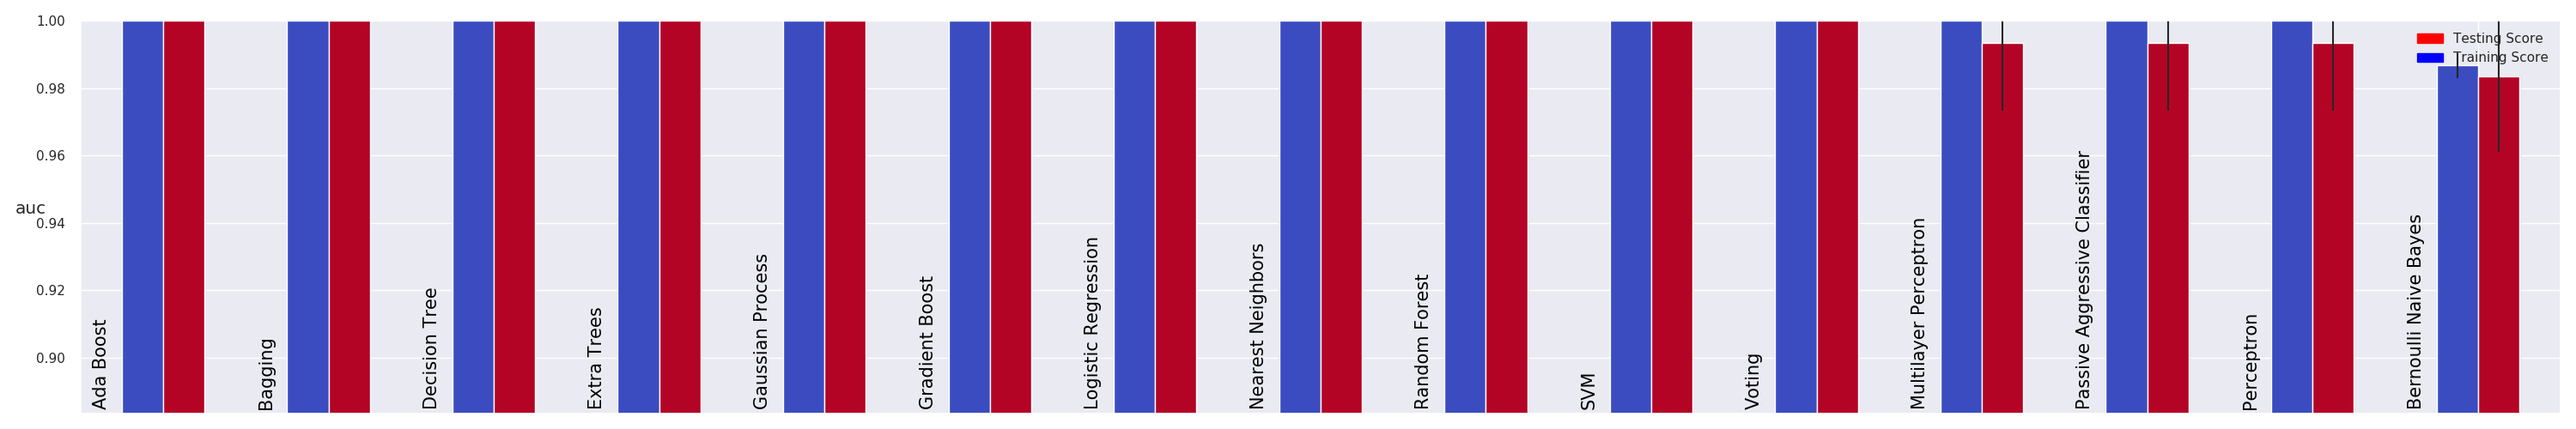
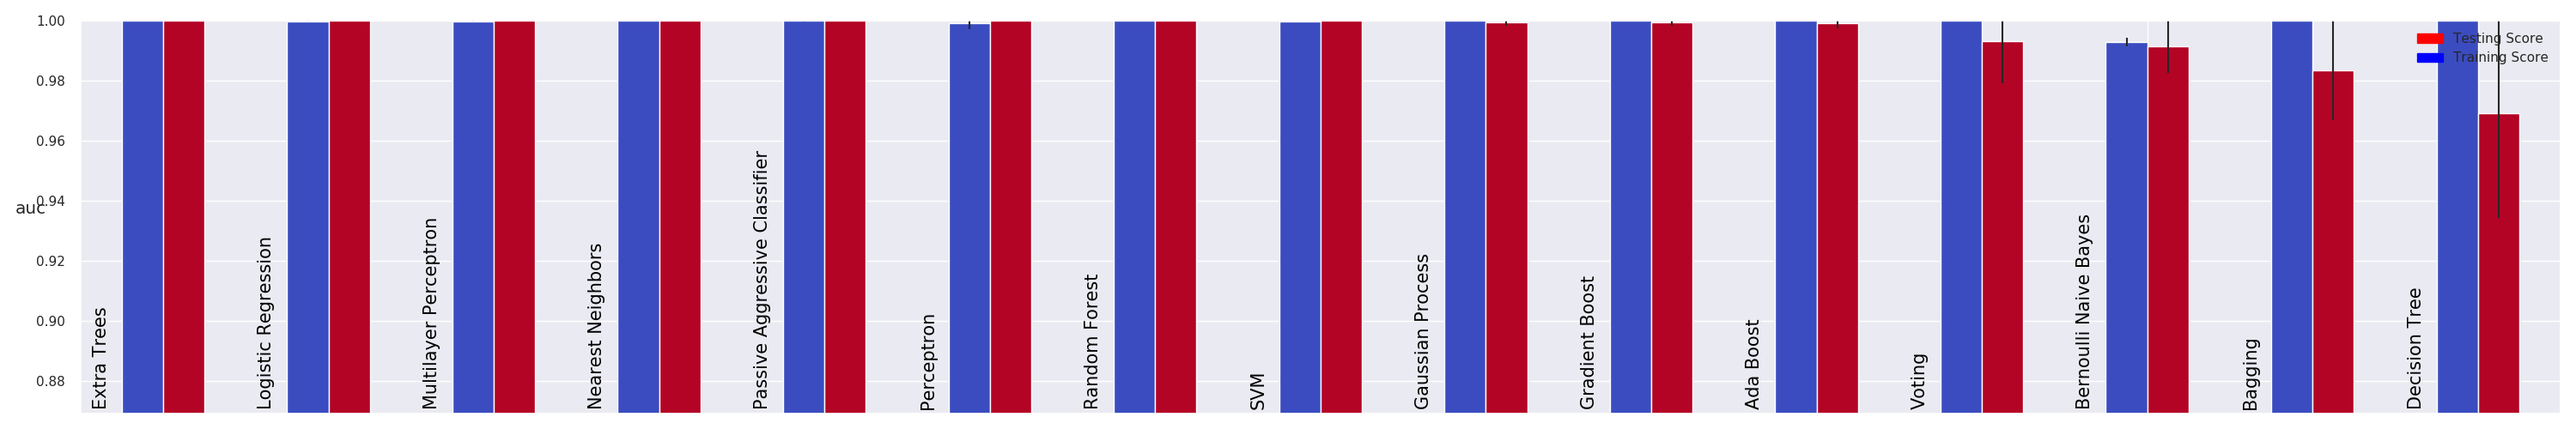
finalize Gaussian example to be a lot easier to classify

diff --git a/dfncluster/Dataset/GaussianConnectivityDataset.py b/dfncluster/Dataset/GaussianConnectivityDataset.py
@@ -1,5 +1,7 @@
+import os
 import numpy as np
 from dfncluster.Dataset import Dataset
+import matplotlib.pyplot as plt
 
 
 class GaussianConnectivityDataset(Dataset):
@@ -13,23 +15,24 @@ class GaussianConnectivityDataset(Dataset):
     """
 
     def __init__(self,
-                 num_ics=10,
+                 num_ics=50,
                  num_subjects=300,
                  num_features=159,
                  window_size=22,
+                 min_transition_len=22,
                  class_parameters=[
                      dict(
-                         states=[0.15, 0.15, 0.15, 0.4, 0.15],
-                         sigma_ics=0.05,
-                         sigma_ext=0.001,
-                         epsilon=0.1,
+                         states=[0.4, 0.1, 0.1, 0.3, 0.1],
+                         sigma_ics=1e-1,
+                         sigma_ext=1e-2,
+                         epsilon=1e-2,
                          transition_probability=[0.5, 0.5, 0.5, 0.5, 0.5]
                      ),
                      dict(
-                         states=[0.4, 0.15, 0.15, 0.15, 0.15],
-                         sigma_ics=0.05,
-                         sigma_ext=0.001,
-                         epsilon=0.1,
+                         states=[0.1, 0.1, 0.3, 0.1, 0.4],
+                         sigma_ics=1e-1,
+                         sigma_ext=1e-2,
+                         epsilon=1e-2,
                          transition_probability=[0.5, 0.5, 0.5, 0.5, 0.5]
                      )
                  ],
@@ -54,7 +57,8 @@ class GaussianConnectivityDataset(Dataset):
             num_classes=num_classes,
             num_features=num_features,
             class_parameters=class_parameters,
-            window_size=window_size
+            window_size=window_size,
+            min_transition_len=min_transition_len
         )
 
     def generate(self,  **kwargs):
@@ -80,8 +84,11 @@ class GaussianConnectivityDataset(Dataset):
         num_subjects = kwargs['num_subjects']
         num_classes = kwargs['num_classes']
         class_parameters = kwargs['class_parameters']
+        num_states = len(class_parameters[0]['states'])
+        num_ics_per_class = int(num_ics/num_states)
         num_features = kwargs['num_features']
         window_size = kwargs['window_size']
+        min_transition_len = kwargs['min_transition_len']
         num_created = 0
         features = []
         labels = []
@@ -89,7 +96,11 @@ class GaussianConnectivityDataset(Dataset):
         # for c in range(num_classes):
         #    class_signals.append(np.random.normal(loc=0, scale=sigma_ics, size=(1, num_features)))
         connected_states = []
+        for iii in range(num_states):
+            connected_states.append(np.arange(num_ics_per_class*iii, (num_ics_per_class*iii + num_ics_per_class)))
+        make_figures = [True for x in range(num_classes)]
         while num_created < num_subjects:
+            last_transition = 0
             label = np.random.randint(0, num_classes)
             parameters = class_parameters[label]
             sigma_ext = parameters['sigma_ext']
@@ -99,9 +110,6 @@ class GaussianConnectivityDataset(Dataset):
             transition_probability = parameters['transition_probability']
             num_states = len(states)
             state_vector = []
-            while len(connected_states) < num_states:
-                connected_states.append(np.random.choice(np.arange(num_ics), size=(np.random.randint(2, num_ics),)))
-
             source_signal = np.random.normal(loc=0, scale=sigma_ics, size=(1, num_features))
             signal = np.random.normal(loc=0, scale=sigma_ext, size=(num_ics, num_features))
             state_index = np.random.choice(np.arange(num_states), size=1, p=states)[0]
@@ -109,9 +117,21 @@ class GaussianConnectivityDataset(Dataset):
             for ww in range(0, num_features-window_size):
                 source_window = source_signal[:, ww:(ww+window_size)]
                 tprob = transition_probability[state_index]
-                if np.random.randn() < tprob:
+                if np.random.randn() < tprob and ww > last_transition + min_transition_len:
+
+                    fname = 'data/examples/frames/class%s_state%d.png' % (label, state_vector[last_transition])
                     state_index = np.random.choice(np.arange(num_states), size=1, p=states)[0]
                     actual_state = connected_states[state_index]
+                    if not os.path.exists(fname):
+                        window = np.corrcoef(signal[:, (last_transition):(ww)])
+                        fig, ax = plt.subplots(1,1)
+                        made=ax.imshow(window-np.eye(*window.shape), vmin=0, vmax=1)
+                        ax.set_title("Class %s / State %d" % (label, state_vector[last_transition]))
+                        os.makedirs('data/examples/frames', exist_ok=True)
+                        plt.savefig(fname, bbox_inches='tight')
+                        make_figures[label] = False
+                        plt.close()
+                    last_transition = ww-1
                 state_vector.append(state_index)
                 for ic in range(num_ics):
                     if ic in actual_state:
@@ -119,7 +139,7 @@ class GaussianConnectivityDataset(Dataset):
             labels.append(label)
             features.append(signal)
             num_created += 1
-            print("Created subject %d with label %d" % (num_created, label))
+            print("Created subject %d with label %d, states %s" % (num_created, label, state_vector))
         features = np.array(features)
         labels = np.array(labels)
         print(labels.shape, features.shape)

diff --git a/data/GaussianConnectivityDatasets/TestGCDataset/TestGCDataset.py b/data/GaussianConnectivityDatasets/TestGCDataset/TestGCDataset.py
@@ -1,6 +1,6 @@
 import json
 from dfncluster.Dataset import GaussianConnectivityDataset
-
+from dfncluster.dFNC import dFNC
 
 class TestGCDataset:
     @staticmethod
@@ -12,3 +12,11 @@ class TestGCDataset:
 
 if __name__ == '__main__':
     dataset = TestGCDataset.make()
+    dfnc = dFNC(
+        dataset=dataset,
+        first_stage_algorithm=None,
+        second_stage_algorithm=None,
+        window_size=22,
+        time_index=1)
+    fnc_features, fnc_labels = dfnc.compute_windows()
+    dfnc.visualize_clusters(fnc_features, fnc_labels, 'Features', 'results/gauss_features.png',None)

diff --git a/main.py b/main.py
@@ -184,6 +184,7 @@ if __name__ == '__main__':
                                                state_filename="%s/%s_states.png" %
                                                (result_dir, cluster_prefix),
                                                ttest_fileprefix="%s/%s_ttest" % (result_dir, cluster_prefix),
+                                               dendogram_filename="%s/%s_dendogram.png" % (result_dir, cluster_prefix),
                                                **params)
 
         subject_data, subject_labels = dfnc.get_subjects()

diff --git a/dfncluster/dFNC/dFNC.py b/dfncluster/dFNC/dFNC.py
@@ -268,7 +268,7 @@ class dFNC:
         """
         print("Computing FNC Windows")
         fnc_features, fnc_labels = self.compute_windows()
-
+        self.visualize_clusters(fnc_features, fnc_labels, kwargs['name'], vis_filename.replace('visualization', 'features'),None)
         if self.first_stage_algorithm is not None:
             print("Performing exemplar clustering")
             exemplar_clusterer = self.first_stage_algorithm(X=self.exemplars['x'], Y=self.exemplars['y'], param_grid=grid_params, **kwargs)

diff --git a/dfncluster/Clusterer/HierarchicalClusterer.py b/dfncluster/Clusterer/HierarchicalClusterer.py
@@ -90,7 +90,10 @@ class HierarchicalClusterer(Clusterer):
             samples = self.X[self.assignments == k, :]
             centroids.append(np.mean(samples, 0))
         self.centroids = np.vstack(centroids)
-        plot_dendrogram(self, truncate_mode='level', p=self.n_clusters_)
+        try:
+            plot_dendrogram(self, truncate_mode='level', p=self.n_clusters_)
+        except AttributeError:
+            pass
         
 
     def evaluate(self):

diff --git a/README.md b/README.md
@@ -15,20 +15,58 @@ Section II describes the fMRI data used in our experimentation, while Section II
 
 # Section III: Methods
 
-# Section IV: Results
+<img width="50%" src="results/dfnc_pipeline(1).png?raw=True" />
 
+# Section IV: Results & Discussion
 
-### Gaussian Simulated Dataset 
+## Gaussian Simulated Dataset 
+
+| Clustering Algorithm | Multilayer Perceptron | Nearest Neighbors | SVM             | Random Forest | Extra Trees   | Gradient Boost  | Logistic Regression | Passive Aggressive Classifier | Perceptron      | Gaussian Process | Ada Boost         | Voting            | Bernoulli Naive Bayes | Bagging           | Decision Tree     |
+| -------------------- | --------------------- | ----------------- | --------------- | ------------- | ------------- | --------------- | ------------------- | ----------------------------- | --------------- | ---------------- | ----------------- | ----------------- | --------------------- | ----------------- | ----------------- |
+| kmeans               | 0.972 ± 0.026         | 0.96 ± 0.021      | 0.972 ± 0.023   | 0.962 ± 0.027 | 0.966 ± 0.024 | 0.954 ± 0.031   | 0.971 ± 0.022       | 0.974 ± 0.02                  | *0.947 ± 0.062* | 0.955 ± 0.027    | 0.957 ± 0.032     | 0.92 ± 0.037      | 0.948 ± 0.022         | 0.941 ± 0.035     | *0.938 ± 0.036*   |
+| gmm                  | 0.963 ± 0.028         | 0.954 ± 0.03      | 0.972 ± 0.025   | 0.967 ± 0.022 | 0.976 ± 0.017 | 0.928 ± 0.046   | 0.962 ± 0.028       | 0.97 ± 0.024                  | 0.962 ± 0.028   | 0.952 ± 0.029    | 0.955 ± 0.031     | 0.92 ± 0.045      | 0.938 ± 0.028         | 0.917 ± 0.036     | 0.923 ± 0.033     |
+| bgmm                 | 0.966 ± 0.023         | 0.949 ± 0.028     | *0.974 ± 0.027* | 0.966 ± 0.026 | 0.963 ± 0.028 | 0.962 ± 0.03    | 0.974 ± 0.02        | 0.972 ± 0.024                 | 0.969 ± 0.029   | 0.955 ± 0.029    | 0.958 ± 0.029     | 0.923 ± 0.045     | 0.949 ± 0.028         | 0.931 ± 0.043     | 0.933 ± 0.026     |
+| dbscan               | 0.971 ± 0.024         | 0.952 ± 0.025     | 0.972 ± 0.022   | 0.961 ± 0.024 | 0.965 ± 0.023 | 0.962 ± 0.022   | 0.967 ± 0.025       | 0.968 ± 0.026                 | 0.957 ± 0.035   | 0.96 ± 0.032     | 0.967 ± 0.028     | 0.913 ± 0.034     | 0.93 ± 0.031          | 0.93 ± 0.036      | 0.943 ± 0.022     |
+| hierarchical         | **1.0 ± 0.0**         | **1.0 ± 0.0**     | **1.0 ± 0.0**   | **1.0 ± 0.0** | **1.0 ± 0.0** | **1.0 ± 0.001** | **1.0 ± 0.0**       | **1.0 ± 0.0**                 | **1.0 ± 0.0**   | **1.0 ± 0.001**  | **0.999 ± 0.002** | **0.993 ± 0.014** | **0.991 ± 0.009**     | **0.983 ± 0.016** | **0.969 ± 0.035** |
 
 ![](images/sim_pre_clustering_AUC.png?raw=true)
 
+<img width="79%" src="results/gauss_betas_accuracy.png?raw=True" />
+<img width="20%" src="results/accuracy_legend.png?raw=true" />
 
-### FBIRN Dataset 
+
+## FBIRN Dataset 
+
+| Clustering Algorithm | SVM               | Multilayer Perceptron | Logistic Regression | Passive Aggressive Classifier | Perceptron        | Random Forest     | Extra Trees       |
+| -------------------- | ----------------- | --------------------- | ------------------- | ----------------------------- | ----------------- | ----------------- | ----------------- |
+| kmeans               | *0.952 ± 0.036*   | *0.92 ± 0.065*        | *0.944 ± 0.039*     | *0.945 ± 0.035*               | **0.902 ± 0.043** | *0.871 ± 0.038*   | *0.853 ± 0.04*    |
+| gmm                  | *0.936 ± 0.054*   | *0.946 ± 0.038*       | *0.943 ± 0.038*     | *0.929 ± 0.031*               | *0.882 ± 0.04*    | **0.885 ± 0.022** | **0.874 ± 0.026** |
+| bgmm                 | *0.955 ± 0.037*   | *0.932 ± 0.042*       | *0.945 ± 0.038*     | *0.939 ± 0.038*               | *0.896 ± 0.074*   | *0.86 ± 0.039*    | *0.87 ± 0.056*    |
+| dbscan               | 0.883 ± 0.027     | 0.893 ± 0.031         | 0.892 ± 0.033       | 0.884 ± 0.027                 | 0.828 ± 0.064     | 0.805 ± 0.064     | 0.806 ± 0.058     |
+| hierarchical         | **0.957 ± 0.032** | **0.954 ± 0.038**     | **0.953 ± 0.038**   | **0.951 ± 0.032**             | *0.891 ± 0.098*   | *0.881 ± 0.032*   | *0.872 ± 0.048*   |
 
 ![](images/fbirn_pre_clustering_AUC.png?raw=true)
 
-### UCLA Dataset
+<img width="79%" src="results/fbirn_betas_accuracy.png?raw=True" />
+<img width="20%" src="results/accuracy_legend.png?raw=true" />
+
+
+## UCLA Dataset
+
+| Clustering Algorithm | SVM              | Multilayer Perceptron | Logistic Regression | Passive Aggressive Classifier | Perceptron        | Extra Trees       | Random Forest     |
+| -------------------- | ---------------- | --------------------- | ------------------- | ----------------------------- | ----------------- | ----------------- | ----------------- |
+| kmeans               | *0.907 ± 0.057*  | *0.907 ± 0.057*       | *0.904 ± 0.06*      | **0.896 ± 0.08**              | *0.799 ± 0.116*   | *0.724 ± 0.168*   | *0.746 ± 0.133*   |
+| gmm                  | **0.91 ± 0.059** | **0.909 ± 0.07**      | **0.908 ± 0.071**   | *0.885 ± 0.087*               | **0.886 ± 0.058** | *0.795 ± 0.095*   | *0.785 ± 0.108*   |
+| bgmm                 | *0.909 ± 0.075*  | *0.907 ± 0.081*       | **0.908 ± 0.08**    | *0.877 ± 0.105*               | *0.879 ± 0.081*   | *0.741 ± 0.157*   | *0.705 ± 0.166*   |
+| dbscan               | 0.409 ± 0.118    | 0.467 ± 0.131         | 0.69 ± 0.096        | 0.667 ± 0.122                 | 0.5 ± 0.0         | 0.643 ± 0.171     | 0.649 ± 0.125     |
+| hierarchical         | *0.886 ± 0.054*  | *0.889 ± 0.07*        | *0.9 ± 0.069*       | *0.883 ± 0.071*               | *0.826 ± 0.122*   | **0.829 ± 0.099** | **0.792 ± 0.114** |
+
 ![](images/ucla_pre_clustering_AUC.png?raw=true)
+
+<img width="79%" src="results/ucla_betas_accuracy.png?raw=True" />
+<img width="20%" src="results/accuracy_legend.png?raw=true" />
+
+# Section V: Conclusion
 
 # dFNCluster
 
